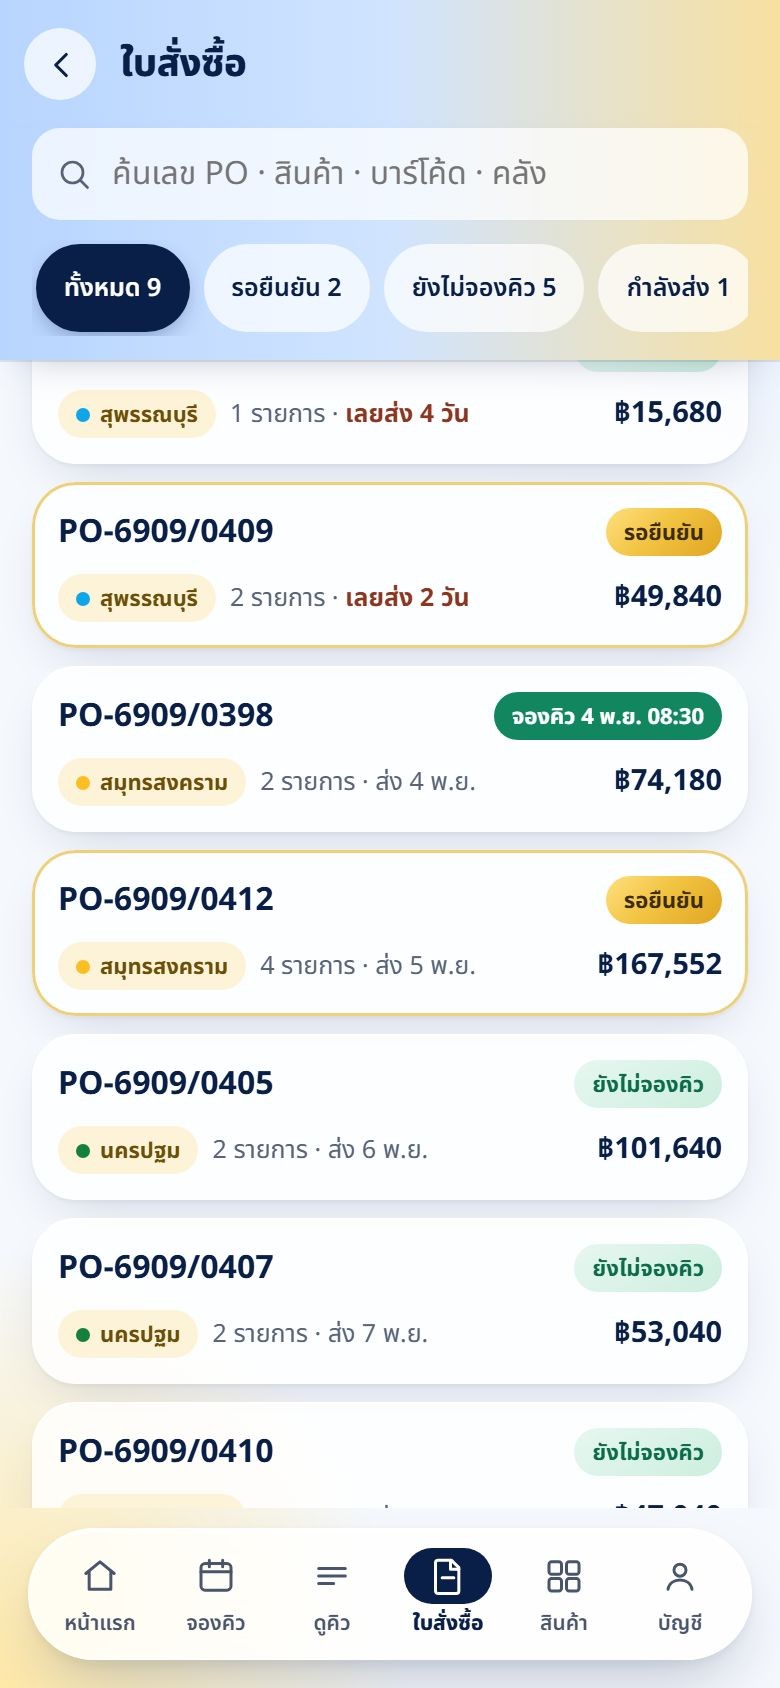
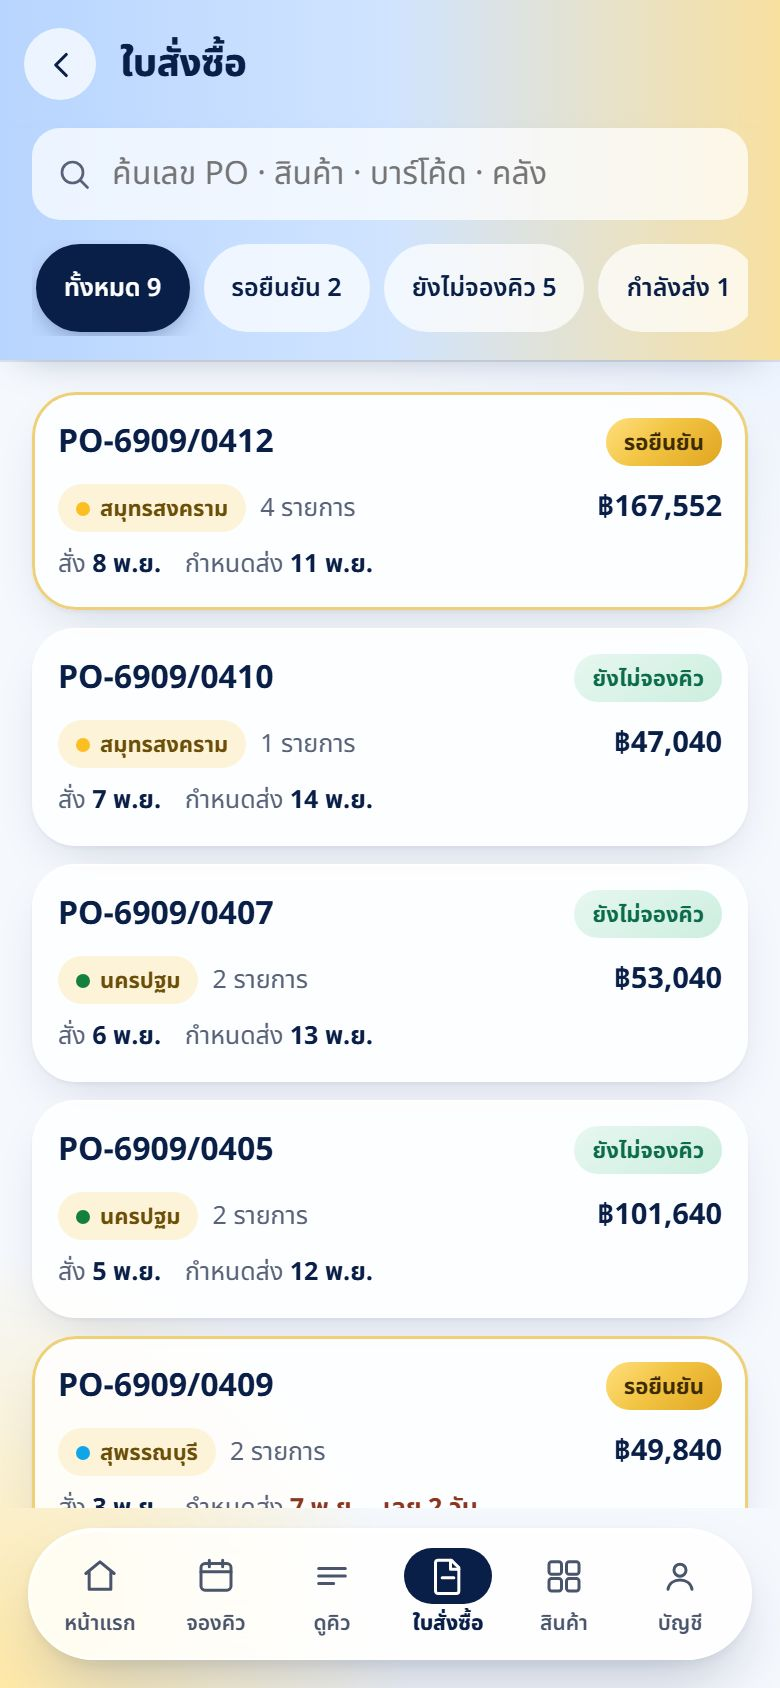
คู่มือซัพ v1.16.0: ภาพรายการใบสั่งซื้อใหม่ (เรียงวันเปิด PO + วันที่สั่ง/กำหนดส่ง)

Changed region(s): [[0.0308, 0.2156, 0.9846, 0.8934], [0.9538, 0.5237, 0.9846, 0.5853]]

diff --git a/supplylink-guide.html b/supplylink-guide.html
@@ -3,7 +3,7 @@
 <head>
 <meta charset="utf-8">
 <meta name="viewport" content="width=device-width,initial-scale=1,viewport-fit=cover">
-<title>ฝึกใช้ SupplyLink v1.15.0</title>
+<title>ฝึกใช้ SupplyLink v1.16.0</title>
 <link rel="preconnect" href="https://fonts.googleapis.com">
 <link href="https://fonts.googleapis.com/css2?family=Noto+Sans+Thai:wght@400;500;600;700&display=swap" rel="stylesheet">
 <style>
@@ -138,7 +138,7 @@ button{font:inherit;cursor:pointer}
 
 <script>
 (function () {
-  var VER = 'v1.15.0', APP = 'https://liff.line.me/2011693023-xbdsN1K7';
+  var VER = 'v1.16.0', APP = 'https://liff.line.me/2011693023-xbdsN1K7';
   var IMG = {"h0":"supplylink-guide/h0.jpg","hinc":"supplylink-guide/hinc.jpg","hdef":"supplylink-guide/hdef.jpg","hpo":"supplylink-guide/hpo.jpg","s2":"supplylink-guide/s2.jpg","s4":"supplylink-guide/s4.jpg","s5":"supplylink-guide/s5.jpg","s6":"supplylink-guide/s6.jpg","s7":"supplylink-guide/s7.jpg","s9":"supplylink-guide/s9.jpg","s10":"supplylink-guide/s10.jpg","s11":"supplylink-guide/s11.jpg","z1":"supplylink-guide/z1.jpg","zm":"supplylink-guide/zm.jpg","zt":"supplylink-guide/zt.jpg","zs":"supplylink-guide/zs.jpg","zi":"supplylink-guide/zi.jpg","q1":"supplylink-guide/q1.jpg","q2":"supplylink-guide/q2.jpg","q3":"supplylink-guide/q3.jpg","q4":"supplylink-guide/q4.jpg","q5":"supplylink-guide/q5.jpg","q6":"supplylink-guide/q6.jpg","q7":"supplylink-guide/q7.jpg","q8":"supplylink-guide/q8.jpg","x1":"supplylink-guide/x1.jpg","x2":"supplylink-guide/x2.jpg","x3":"supplylink-guide/x3.jpg","x4":"supplylink-guide/x4.jpg","x5":"supplylink-guide/x5.jpg","x6":"supplylink-guide/x6.jpg","x7":"supplylink-guide/x7.jpg","a2":"supplylink-guide/a2.jpg","a3":"supplylink-guide/a3.jpg","a5":"supplylink-guide/a5.jpg","d2":"supplylink-guide/d2.jpg","a4":"supplylink-guide/a4.jpg","d3":"supplylink-guide/d3.jpg","d4":"supplylink-guide/d4.jpg","p1":"supplylink-guide/p1.jpg","p1b":"supplylink-guide/p1b.jpg","b2":"supplylink-guide/b2.jpg","b3":"supplylink-guide/b3.jpg","p5":"supplylink-guide/p5.jpg","c2":"supplylink-guide/c2.jpg","c3":"supplylink-guide/c3.jpg","k1":"supplylink-guide/k1.jpg","k2":"supplylink-guide/k2.jpg","k3":"supplylink-guide/k3.jpg","k4":"supplylink-guide/k4.jpg","k5":"supplylink-guide/k5.jpg","k6":"supplylink-guide/k6.jpg","k7":"supplylink-guide/k7.jpg","k9":"supplylink-guide/k9.jpg","k10":"supplylink-guide/k10.jpg","k11":"supplylink-guide/k11.jpg","n1":"supplylink-guide/n1.jpg","n2":"supplylink-guide/n2.jpg","n3":"supplylink-guide/n3.jpg","n4":"supplylink-guide/n4.jpg","n5":"supplylink-guide/n5.jpg","n6":"supplylink-guide/n6.jpg","n7":"supplylink-guide/n7.jpg","n8":"supplylink-guide/n8.jpg","n9":"supplylink-guide/n9.jpg","g1":"supplylink-guide/g1.jpg","g2":"supplylink-guide/g2.jpg","g3":"supplylink-guide/g3.jpg","g4":"supplylink-guide/g4.jpg","m1":"supplylink-guide/m1.jpg","m2":"supplylink-guide/m2.jpg","m3":"supplylink-guide/m3.jpg","m4":"supplylink-guide/m4.jpg","m5":"supplylink-guide/m5.jpg","f1":"supplylink-guide/f1.jpg","f2":"supplylink-guide/f2.jpg","f3":"supplylink-guide/f3.jpg","f4":"supplylink-guide/f4.jpg","dws":"supplylink-guide/dws.jpg","dwh":"supplylink-guide/dwh.jpg","stk":"supplylink-guide/stk.jpg","stk2":"supplylink-guide/stk2.jpg","stkh":"supplylink-guide/stkh.jpg","cbi":"supplylink-guide/cbi.jpg","cb1":"supplylink-guide/cb1.jpg","cb2":"supplylink-guide/cb2.jpg","cb3":"supplylink-guide/cb3.jpg","cbp":"supplylink-guide/cbp.jpg","ot0":"supplylink-guide/ot0.jpg","prof1":"supplylink-guide/prof1.jpg","who1":"supplylink-guide/who1.jpg","mv1":"supplylink-guide/mv1.jpg","mv2":"supplylink-guide/mv2.jpg","aseq":"supplylink-guide/aseq.jpg","inv1":"supplylink-guide/inv1.jpg","ot1":"supplylink-guide/ot1.jpg","ot2":"supplylink-guide/ot2.jpg","ot3":"supplylink-guide/ot3.jpg"};                                       /* แทนด้วยรูปตอน build */
   var HAND = '<svg class="hand" viewBox="0 0 48 48" aria-hidden="true"><path d="M19 6c2 0 3.5 1.6 3.5 3.6V22l1-.1V18c0-2 1.6-3.4 3.4-3.4S30.3 16 30.3 18v4.4l1-.1v-2.6c0-1.9 1.5-3.3 3.3-3.3s3.3 1.5 3.3 3.3v3.6l.8-.1c1.8 0 3.3 1.5 3.3 3.3V34c0 6.6-5.4 12-12 12h-3.4c-3.8 0-7.4-1.8-9.6-4.9L8.5 30.6c-1-1.4-.7-3.4.7-4.4 1.4-1 3.3-.8 4.4.5l2 2.4V9.6C15.6 7.6 17.1 6 19 6z" fill="#fff" stroke="#0A1F47" stroke-width="2.4" stroke-linejoin="round"/></svg>';
   var FLOWCARD = function () {                              /* ส่งแล้วเกิดอะไรขึ้น: ซัพตอบ → จัดซื้อยืนยัน → เปิด PO จริง */
@@ -190,7 +190,7 @@ button{font:inherit;cursor:pointer}
     ], end:'ถ้า PO มีจุดต่างจากที่ตกลง การ์ดจะบอกให้เปิดดูแล้วยืนยัน PO อีกครั้งก่อนจองคิว' },
     { k:'calc', t:'คำนวณโปร · ทุนหลังปัน', g:'คำนวณโปร', s:'ส่วนลด แถม ปันทุน', n:10, steps:[
       { img:'h0', r:[195, 765, 58, 64], h:'หน้าแรก › ใบสั่งซื้อ', d:'แตะเมนู "ใบสั่งซื้อ" แถบล่าง' },
-      { img:'hpo', r:[16, 425, 358, 83], h:'เปิดใบที่ต้องตรวจ', d:'แตะใบที่ขึ้น "รอยืนยัน" (ใบร่างก็เข้าที่นี่ได้)' },
+      { img:'hpo', r:[16, 196, 358, 109], h:'เปิดใบที่ต้องตรวจ', d:'ใบใหม่สุดอยู่บน · การ์ดบอกวันที่สั่งและกำหนดส่ง แตะใบที่ขึ้น "รอยืนยัน"' },
       { img:'q1', r:[37, 395, 316, 20], h:'ดูว่าขาดทุนเท่าไร', d:'ทุนต่อลัง (รวม VAT) เทียบราคาขายต่ำสุดของรัตน ทุนสูงกว่า = ขาดทุน' },
       { img:'q2', r:[153, 388, 82, 34], h:'ลดทุนด้วยโปร', d:'กด "+ ส่วนลด" "+ ของแถม" หรือ "+ อื่นๆ" (รีเบต · แถมนอกบิล)' },
       { img:'q3', r:[39, 386, 152, 38], h:'ใส่จำนวนที่แถม', d:'แถมตัวเดียวกันกี่ลัง / แพ็ค / ชิ้น แตะช่องนี้', fx:'type', fxt:'10' },
